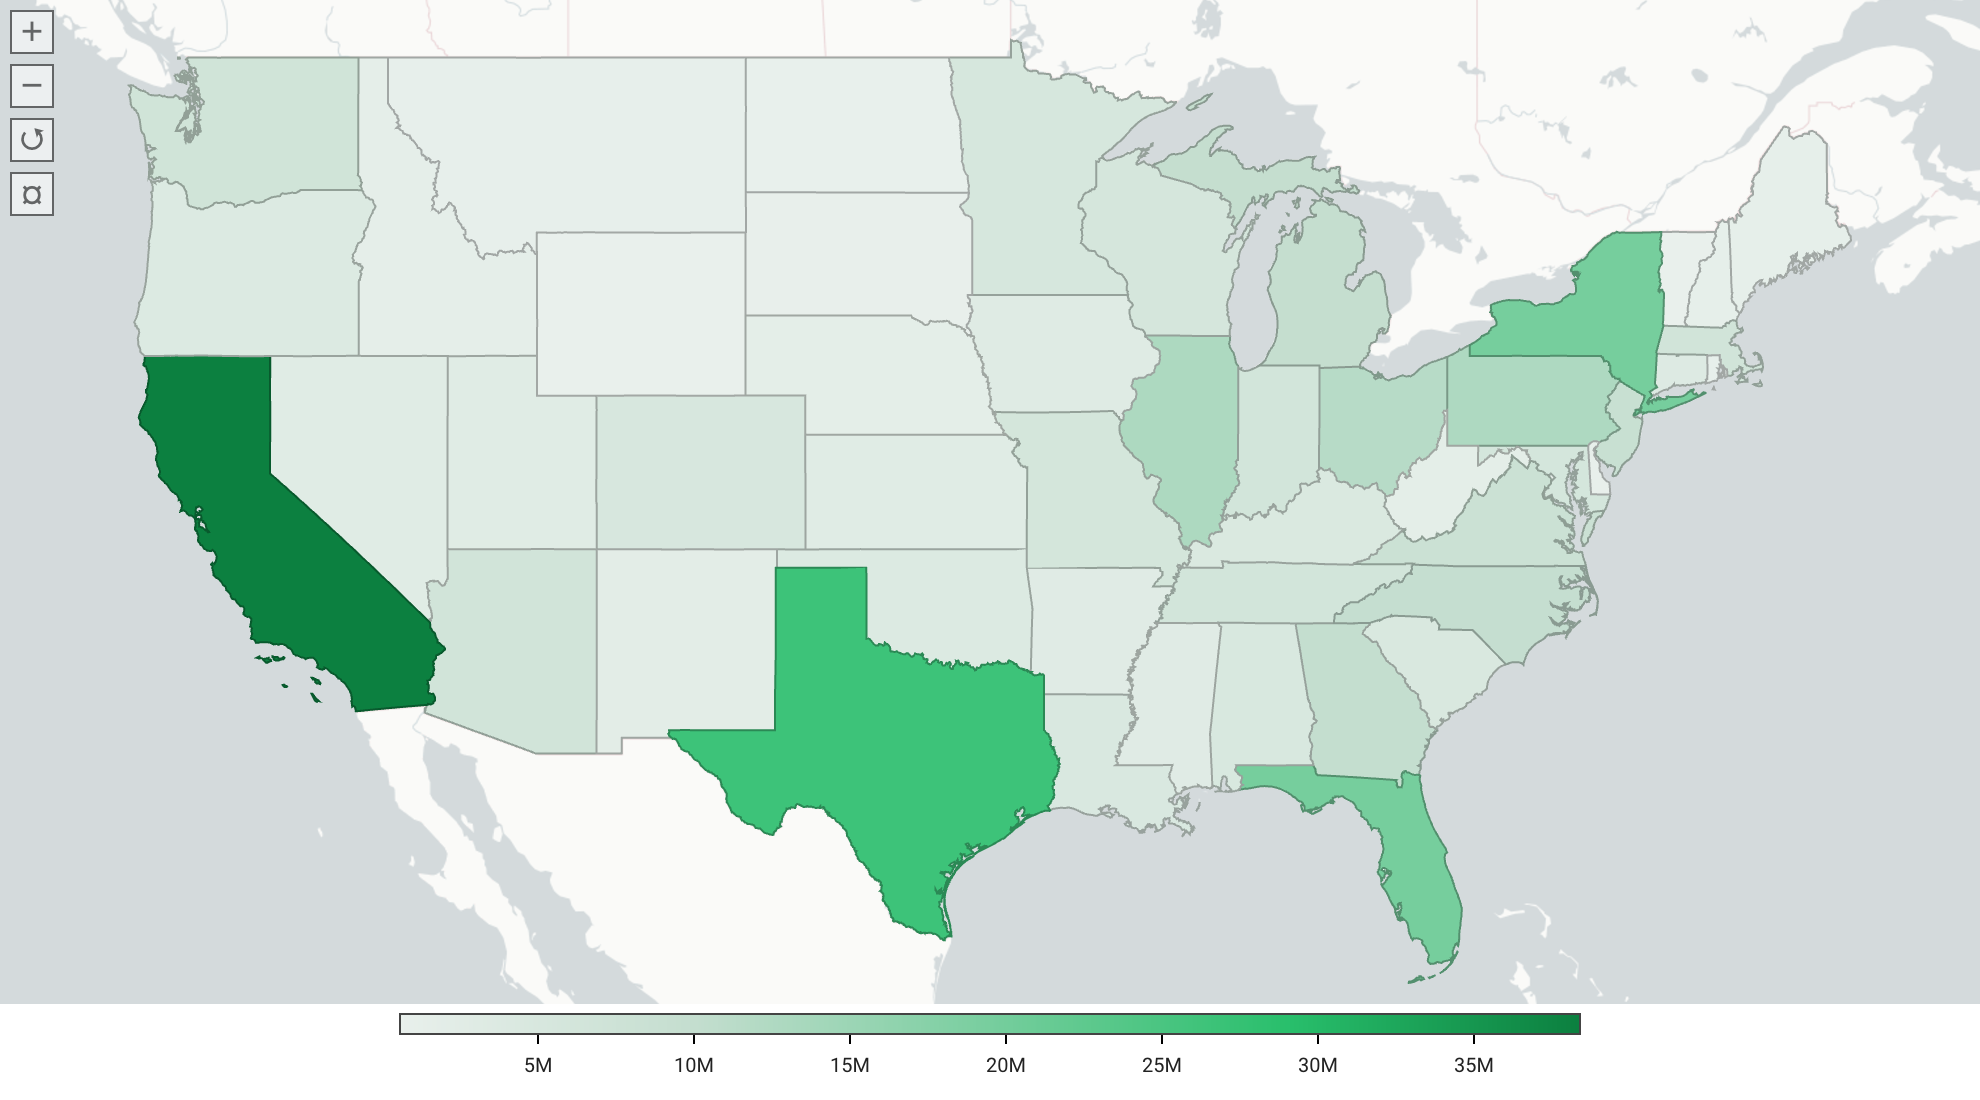
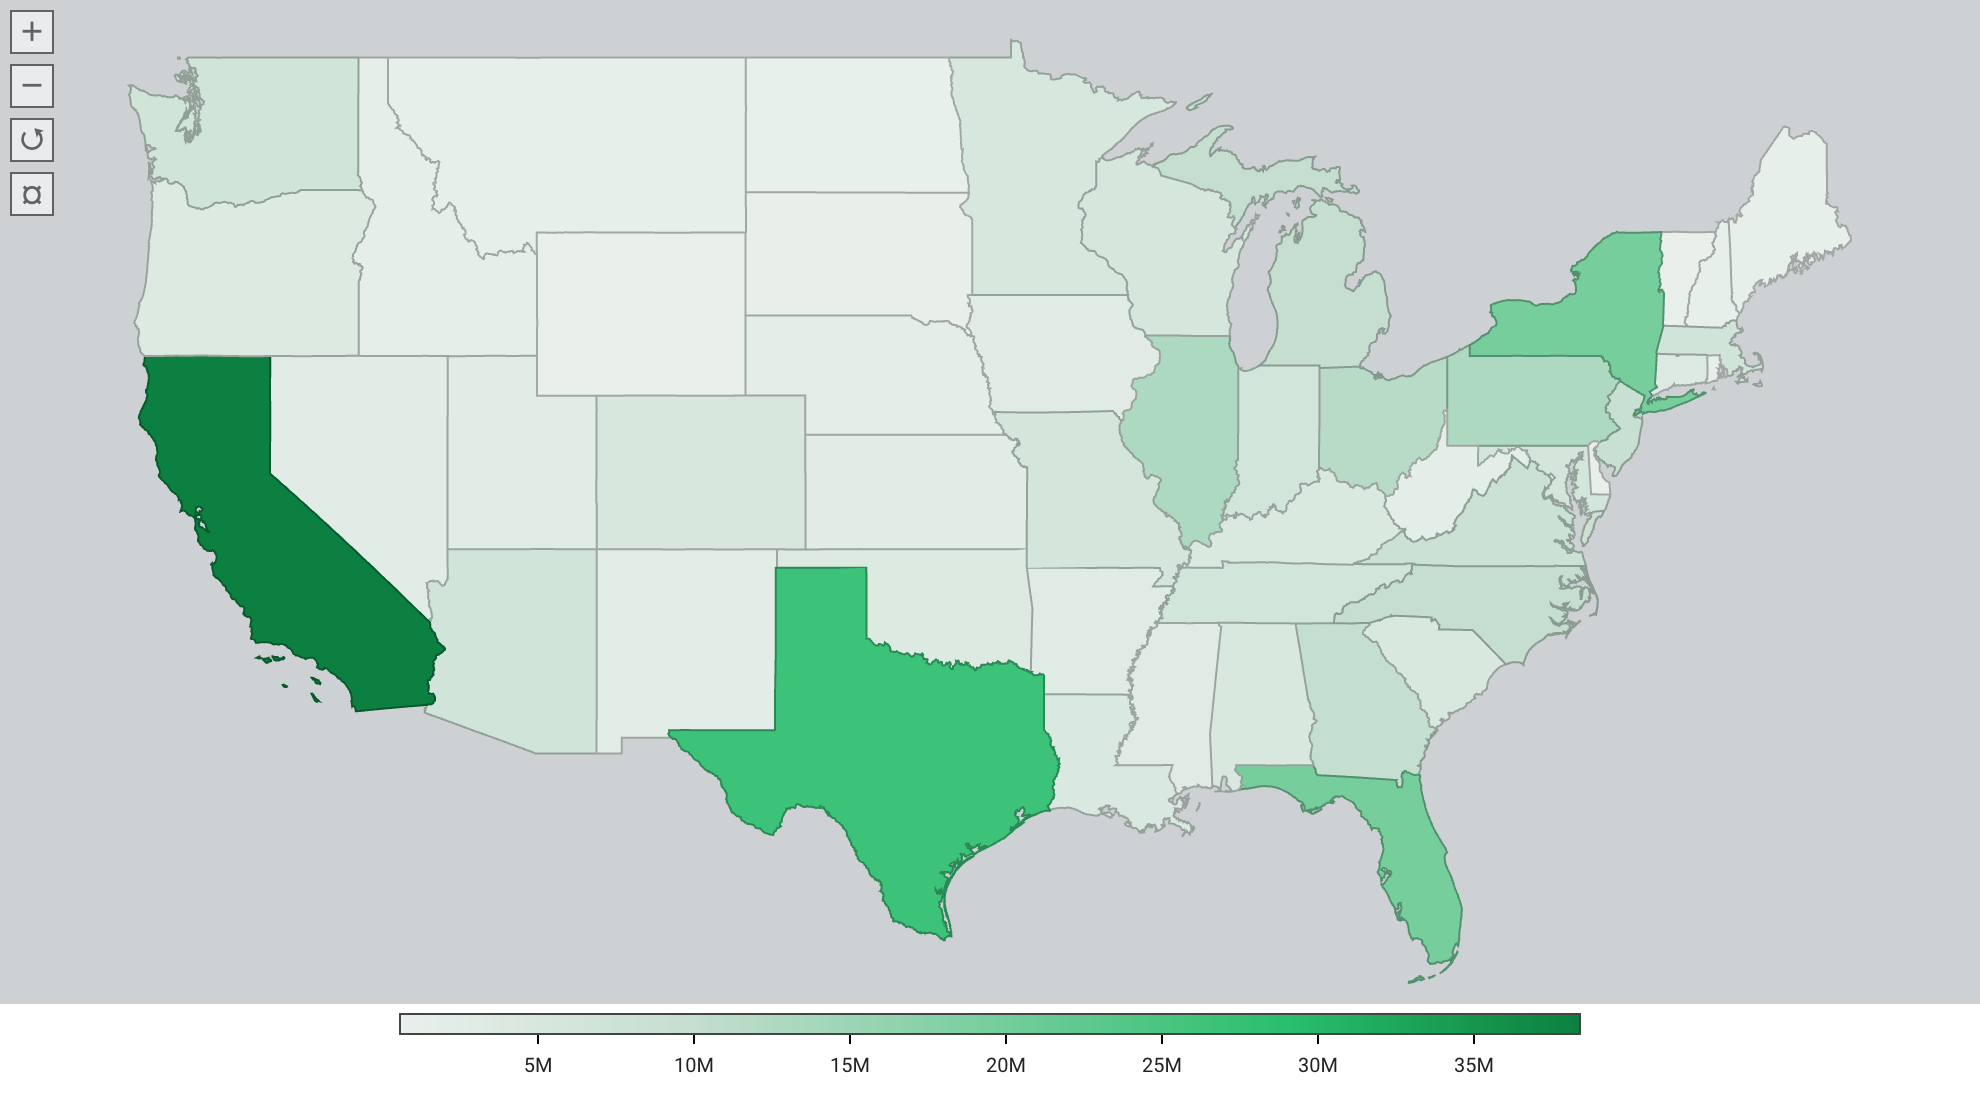
d3plus-geomap examples

Changed region(s): [[0.0308, 0.0, 1.0, 0.34], [0.1848, 0.6182, 0.4929, 0.9273], [0.7394, 0.8655, 0.7702, 0.8964]]

diff --git a/_examples/d3plus-geomap/remove-tiles-from-geomap/index.md b/_examples/d3plus-geomap/remove-tiles-from-geomap/index.md
@@ -2,8 +2,8 @@
 title: Removing Background Tiles from a Geomap
 width: 990
 height: 550
-time: 1562622810432
-date: July 08, 2019
+time: 1562851705832
+date: July 11, 2019
 ---
 
 [height]: 550

diff --git a/_examples/d3plus-geomap/changing-coordinate-point-sizes/index.md b/_examples/d3plus-geomap/changing-coordinate-point-sizes/index.md
@@ -2,8 +2,8 @@
 title: Changing Coordinate Point Sizes
 width: 990
 height: 550
-time: 1562622810432
-date: July 08, 2019
+time: 1562851705832
+date: July 11, 2019
 ---
 
 [height]: 550

diff --git a/_examples/d3plus-geomap/change-default-geomap-zooming/index.md b/_examples/d3plus-geomap/change-default-geomap-zooming/index.md
@@ -2,8 +2,8 @@
 title: Change Default Geomap Zooming
 width: 990
 height: 550
-time: 1562622810432
-date: July 08, 2019
+time: 1562851705832
+date: July 11, 2019
 ---
 
 [height]: 550

diff --git a/_examples/d3plus-geomap/format-geomap-scale/index.md b/_examples/d3plus-geomap/format-geomap-scale/index.md
@@ -2,8 +2,8 @@
 title: Geomap Color Scale Formatting
 width: 990
 height: 550
-time: 1562622810432
-date: July 08, 2019
+time: 1562851705832
+date: July 11, 2019
 ---
 
 [height]: 550

diff --git a/_examples/d3plus-geomap/custom-color/index.md b/_examples/d3plus-geomap/custom-color/index.md
@@ -2,8 +2,8 @@
 title: Choropleth w/ Custom Colors
 width: 990
 height: 550
-time: 1562622810432
-date: July 08, 2019
+time: 1562851705832
+date: July 11, 2019
 ---
 
 [height]: 550

diff --git a/_examples/d3plus-geomap/color-scale/index.md b/_examples/d3plus-geomap/color-scale/index.md
@@ -2,8 +2,8 @@
 title: Choropleth w/ Jenks Breaks
 width: 990
 height: 550
-time: 1562622810432
-date: July 08, 2019
+time: 1562851705832
+date: July 11, 2019
 ---
 
 [height]: 550

diff --git a/_examples/d3plus-geomap/coordinate-points/index.md b/_examples/d3plus-geomap/coordinate-points/index.md
@@ -2,8 +2,8 @@
 title: Coordinate Points on a Map
 width: 990
 height: 550
-time: 1562622810432
-date: July 08, 2019
+time: 1562851705832
+date: July 11, 2019
 ---
 
 [height]: 550

diff --git a/_examples/d3plus-geomap/custom-tiles/index.md b/_examples/d3plus-geomap/custom-tiles/index.md
@@ -2,8 +2,8 @@
 title: Changing the Geo Map Tiles
 width: 990
 height: 550
-time: 1562622810432
-date: July 08, 2019
+time: 1562851705832
+date: July 11, 2019
 ---
 
 [height]: 550

diff --git a/_examples/d3plus-geomap/change-projection/index.md b/_examples/d3plus-geomap/change-projection/index.md
@@ -2,8 +2,8 @@
 title: Changing Map Projections
 width: 990
 height: 550
-time: 1562622810432
-date: July 08, 2019
+time: 1562851705832
+date: July 11, 2019
 ---
 
 [height]: 550

diff --git a/_examples/d3plus-geomap/datausa-tracts/index.md b/_examples/d3plus-geomap/datausa-tracts/index.md
@@ -2,8 +2,8 @@
 title: Income by Census Tract
 width: 990
 height: 550
-time: 1562622810432
-date: July 08, 2019
+time: 1562851705832
+date: July 11, 2019
 ---
 
 [height]: 550

diff --git a/_examples/d3plus-geomap/disable-geomap-zooming/index.md b/_examples/d3plus-geomap/disable-geomap-zooming/index.md
@@ -2,8 +2,8 @@
 title: Disable Geomap Zooming
 width: 990
 height: 550
-time: 1562622810432
-date: July 08, 2019
+time: 1562851705832
+date: July 11, 2019
 ---
 
 [height]: 550

diff --git a/_examples/d3plus-geomap/getting-started/index.md b/_examples/d3plus-geomap/getting-started/index.md
@@ -2,8 +2,8 @@
 title: Simple Choropleth Map
 width: 990
 height: 550
-time: 1562622810432
-date: July 08, 2019
+time: 1562851705832
+date: July 11, 2019
 ---
 
 [height]: 550
